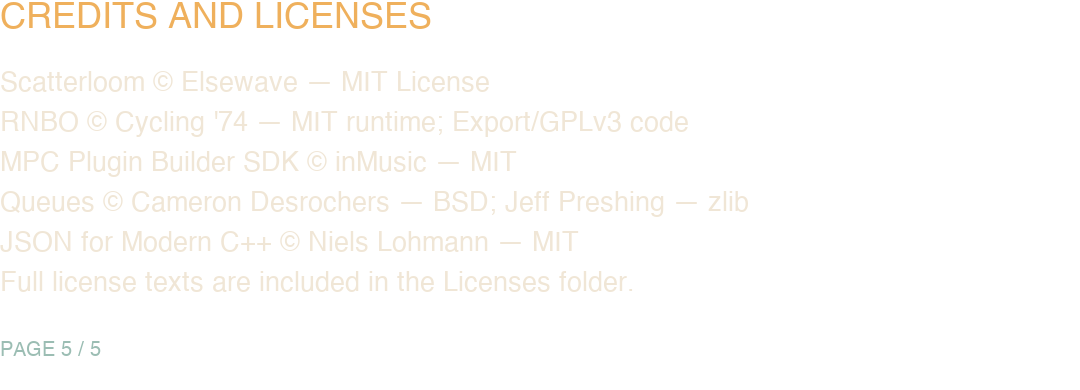
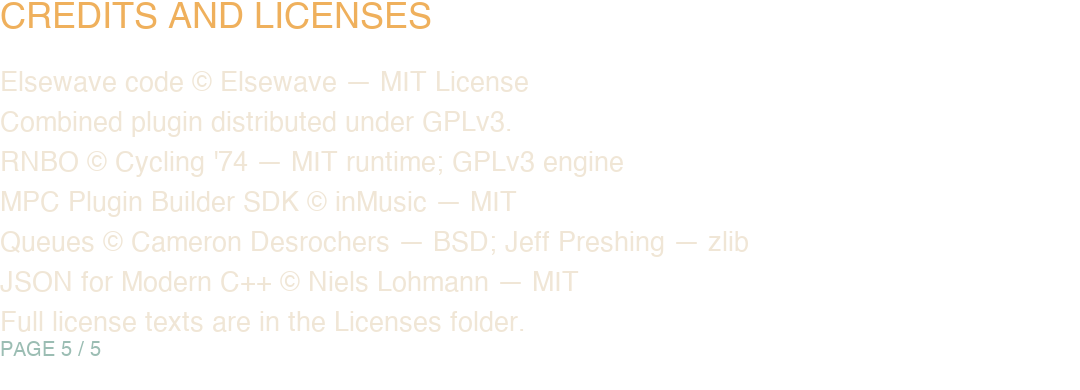
Document GPLv3 distribution terms

diff --git a/mpc/info_merge.py b/mpc/info_merge.py
@@ -40,7 +40,7 @@ try! rep.representation(using: .png, properties: [:])!.write(to: URL(fileURLWith
     subprocess.run(['/usr/bin/swift','-',str(qr_raw)],input=swift,text=True,check=True)
     qr=Image.open(qr_raw).convert('RGBA')
     im=Image.new('RGBA',(qr.width+48,qr.height+48),'white'); im.alpha_composite(qr,(24,24)); im.save(skins/'info-tip-qr.png'); qr_raw.unlink()
-    pages=[('THANK YOU',['Thanks for trying out Scatterloom.', 'I hope it helps you interface your warm,', 'human heart with cold data.', "If you'd like to buy me an Americano,", 'scan the QR or go to:', 'ko-fi.com/elsewavedsp']),('CAPTURE',['Route audio into Scatterloom and turn Capture on.','A signal crossing the sensitivity threshold captures a grain.','Adjust Sensitivity or use Auto Sens on the Settings page.','The pool holds up to nine grains; the pads show its contents.','Turn Capture off to keep the pool while you play.','Clear Pool removes the captured grains.']),('PATTERN',['Steps set the length of the rhythmic cycle; Pulses set','how many triggers are spread across those steps.','For example, 7 pulses over 16 steps creates seven hits.','Division sets the rhythmic rate; Rotate shifts the pattern.','The ring shows the steps, playhead and grain lengths.','Grain Length controls how long each captured grain plays.']),('GRAIN SELECTION',['Recent Grains limits selection to the newest pool entries.','On Pattern, each row represents the current grain; each','column represents a possible next grain. The cell bars','show their probabilities: larger bars are more likely.','Choose a pattern preset, or tap a cell to adjust it.','Only captured grains within Recent Grains are available.']),('CREDITS AND LICENSES',['Scatterloom © Elsewave — MIT License',"RNBO © Cycling '74 — MIT runtime; Export/GPLv3 code",'MPC Plugin Builder SDK © inMusic — MIT','Queues © Cameron Desrochers — BSD; Jeff Preshing — zlib','JSON for Modern C++ © Niels Lohmann — MIT','Full license texts are included in the Licenses folder.'])]
+    pages=[('THANK YOU',['Thanks for trying out Scatterloom.', 'I hope it helps you interface your warm,', 'human heart with cold data.', "If you'd like to buy me an Americano,", 'scan the QR or go to:', 'ko-fi.com/elsewavedsp']),('CAPTURE',['Route audio into Scatterloom and turn Capture on.','A signal crossing the sensitivity threshold captures a grain.','Adjust Sensitivity or use Auto Sens on the Settings page.','The pool holds up to nine grains; the pads show its contents.','Turn Capture off to keep the pool while you play.','Clear Pool removes the captured grains.']),('PATTERN',['Steps set the length of the rhythmic cycle; Pulses set','how many triggers are spread across those steps.','For example, 7 pulses over 16 steps creates seven hits.','Division sets the rhythmic rate; Rotate shifts the pattern.','The ring shows the steps, playhead and grain lengths.','Grain Length controls how long each captured grain plays.']),('GRAIN SELECTION',['Recent Grains limits selection to the newest pool entries.','On Pattern, each row represents the current grain; each','column represents a possible next grain. The cell bars','show their probabilities: larger bars are more likely.','Choose a pattern preset, or tap a cell to adjust it.','Only captured grains within Recent Grains are available.']),('CREDITS AND LICENSES',['Elsewave code © Elsewave — MIT License', 'Combined plugin distributed under GPLv3.', "RNBO © Cycling '74 — MIT runtime; GPLv3 engine", 'MPC Plugin Builder SDK © inMusic — MIT', 'Queues © Cameron Desrochers — BSD; Jeff Preshing — zlib', 'JSON for Modern C++ © Niels Lohmann — MIT', 'Full license texts are in the Licenses folder.'])]
     items=[]
     for idx,(title,lines) in enumerate(pages):
         im=Image.new('RGBA',(1080,390),(0,0,0,0)); d=ImageDraw.Draw(im)

diff --git a/mpc/package_notices.py b/mpc/package_notices.py
@@ -8,6 +8,7 @@ out = root / 'mpc/build/Elsewave - VST - Scatterloom/Licenses'
 out.mkdir(parents=True, exist_ok=True)
 files = {
     'Elsewave-MIT.txt': 'LICENSE',
+    'GPL-3.0-only.txt': 'licenses/GPL-3.0-only.txt',
     'README-third-party.md': 'THIRD_PARTY_NOTICES.md',
     'RNBO-runtime-MIT.txt': 'generated/rnbo/rnbo/LICENSE',
     'inMusic-MPC-SDK-MIT.txt': 'licenses/MPC-Plugin-Builder-SDK.txt',

diff --git a/THIRD_PARTY_NOTICES.md b/THIRD_PARTY_NOTICES.md
@@ -2,6 +2,8 @@
 
 - `mpc/generated/Scatterloom.cpp` contains Cycling '74 Max-generated code. Its
   complete dual-license notice appears at the top of that file; preserve it.
+  This distribution uses its GPL version 3 option; the complete GPL text is
+  in `licenses/GPL-3.0-only.txt`. Elsewave-authored code remains MIT licensed.
 - `generated/rnbo/rnbo/` contains the Cycling '74 RNBO runtime. Its MIT license
   is in `generated/rnbo/rnbo/LICENSE`. Some bundled third-party components carry
   additional notices in their own files and license documents.

diff --git a/README.md b/README.md
@@ -39,5 +39,7 @@ the Cycling '74 copyright and license notice when modifying it.
 ## License
 
 Elsewave-authored source is available under the MIT license in [LICENSE](LICENSE).
+The combined plugin is distributed under [GPL version 3](licenses/GPL-3.0-only.txt),
+using the GPL option for the Cycling 74-generated engine.
 Third-party code and artwork have their own licenses; see
 [THIRD_PARTY_NOTICES.md](THIRD_PARTY_NOTICES.md).
